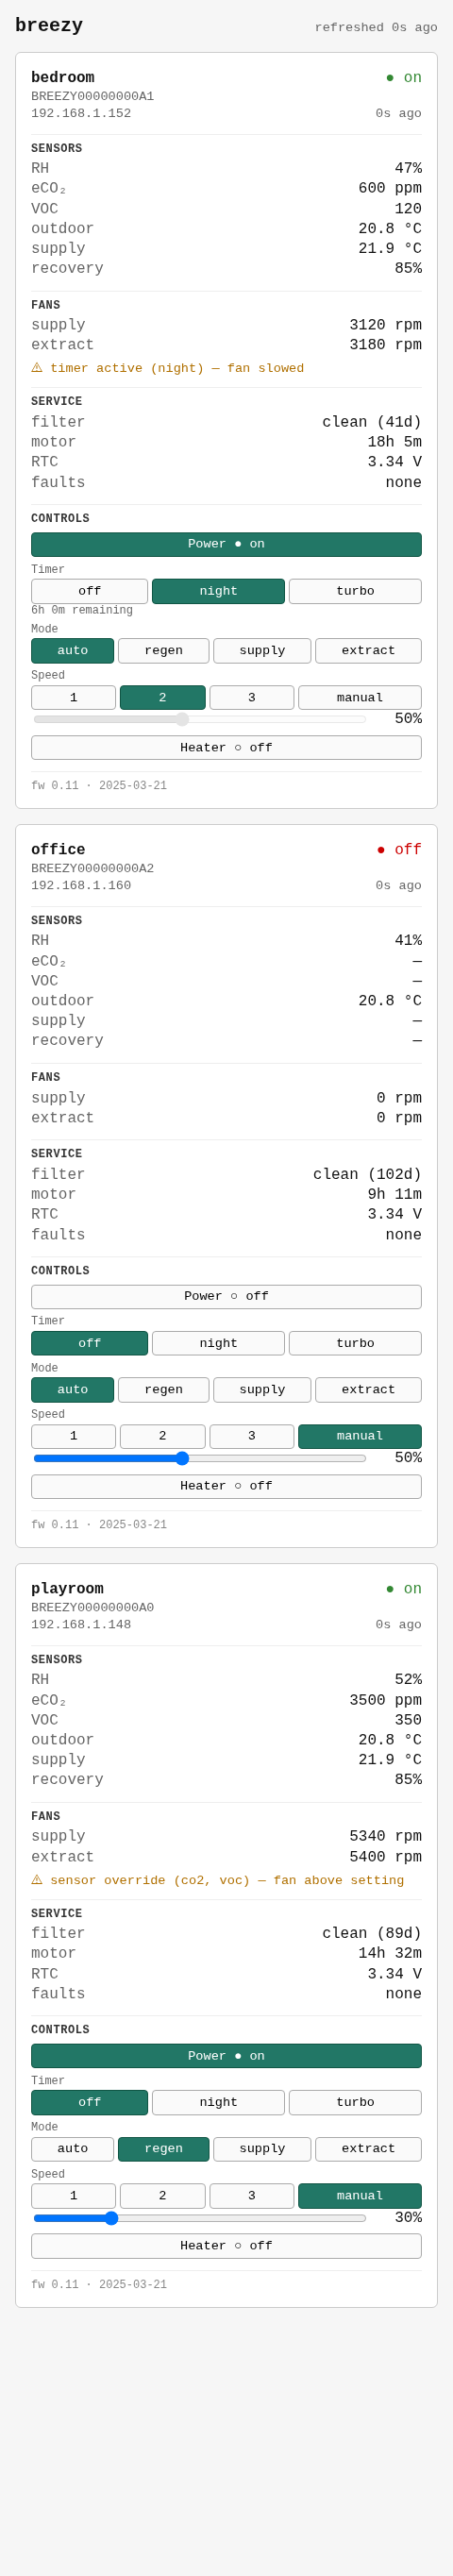
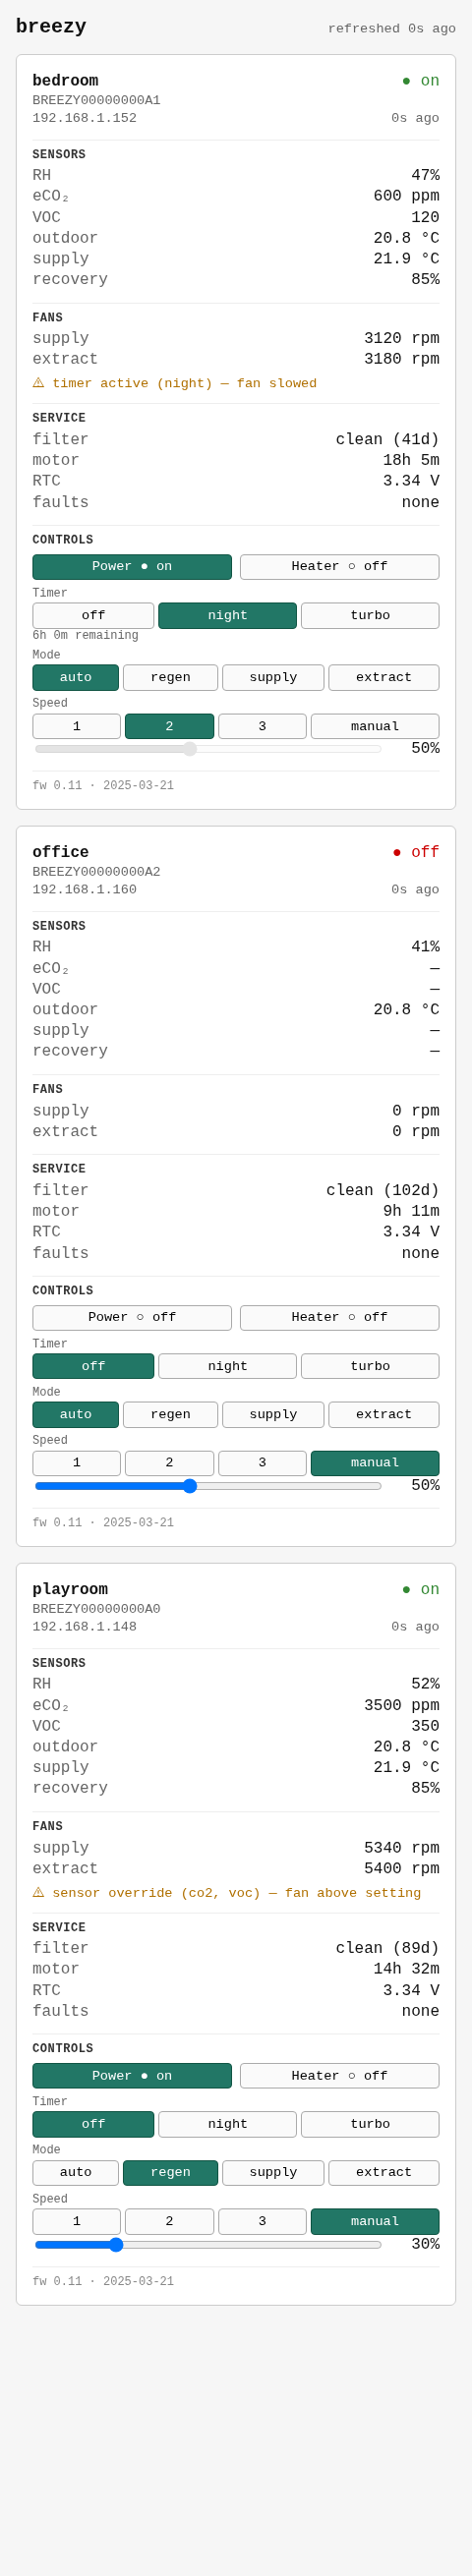
ui: pair Power and Heater toggles in a 2x1 row at the top of Controls
Closes #8.

Heater moves from below Speed up next to Power; the two toggles share a
flex row with equal-width cells and per-button toast slots. No JS or
keyboard-shortcut changes.

diff --git a/cmd/breezyd/ui/index.html b/cmd/breezyd/ui/index.html
@@ -83,6 +83,8 @@
     padding: 0.3rem 0.4rem; border-radius: 4px; font-size: 0.75rem;
     margin-top: 0.25rem;
   }
+  .toggle-row { display: flex; gap: 0.5rem; }
+  .toggle-cell { flex: 1 1 0; min-width: 0; }
 </style>
 </head>
 <body>
@@ -320,11 +322,22 @@ function renderControls(name, snap, stale) {
     <h3>Controls</h3>
 
     <div class="ctrl">
-      <button class="toggle" data-action="power" data-name="${esc(name)}" ${dis}
-        aria-pressed="${power ? "true" : "false"}">
-        Power ${power ? "● on" : "○ off"}
-      </button>
-      ${t.power ? `<div class="toast" role="alert">${esc(t.power)}</div>` : ""}
+      <div class="toggle-row">
+        <div class="toggle-cell">
+          <button class="toggle" data-action="power" data-name="${esc(name)}" ${dis}
+            aria-pressed="${power ? "true" : "false"}">
+            Power ${power ? "● on" : "○ off"}
+          </button>
+          ${t.power ? `<div class="toast" role="alert">${esc(t.power)}</div>` : ""}
+        </div>
+        <div class="toggle-cell">
+          <button class="toggle" data-action="heater" data-name="${esc(name)}" ${dis}
+            aria-pressed="${heater ? "true" : "false"}">
+            Heater ${heater ? "● on" : "○ off"}
+          </button>
+          ${t.heater ? `<div class="toast" role="alert">${esc(t.heater)}</div>` : ""}
+        </div>
+      </div>
     </div>
 
     <div class="ctrl">
@@ -368,13 +381,6 @@ function renderControls(name, snap, stale) {
       ${t.speed ? `<div class="toast" role="alert">${esc(t.speed)}</div>` : ""}
     </div>
 
-    <div class="ctrl">
-      <button class="toggle" data-action="heater" data-name="${esc(name)}" ${dis}
-        aria-pressed="${heater ? "true" : "false"}">
-        Heater ${heater ? "● on" : "○ off"}
-      </button>
-      ${t.heater ? `<div class="toast" role="alert">${esc(t.heater)}</div>` : ""}
-    </div>
   </div>`;
 }
 